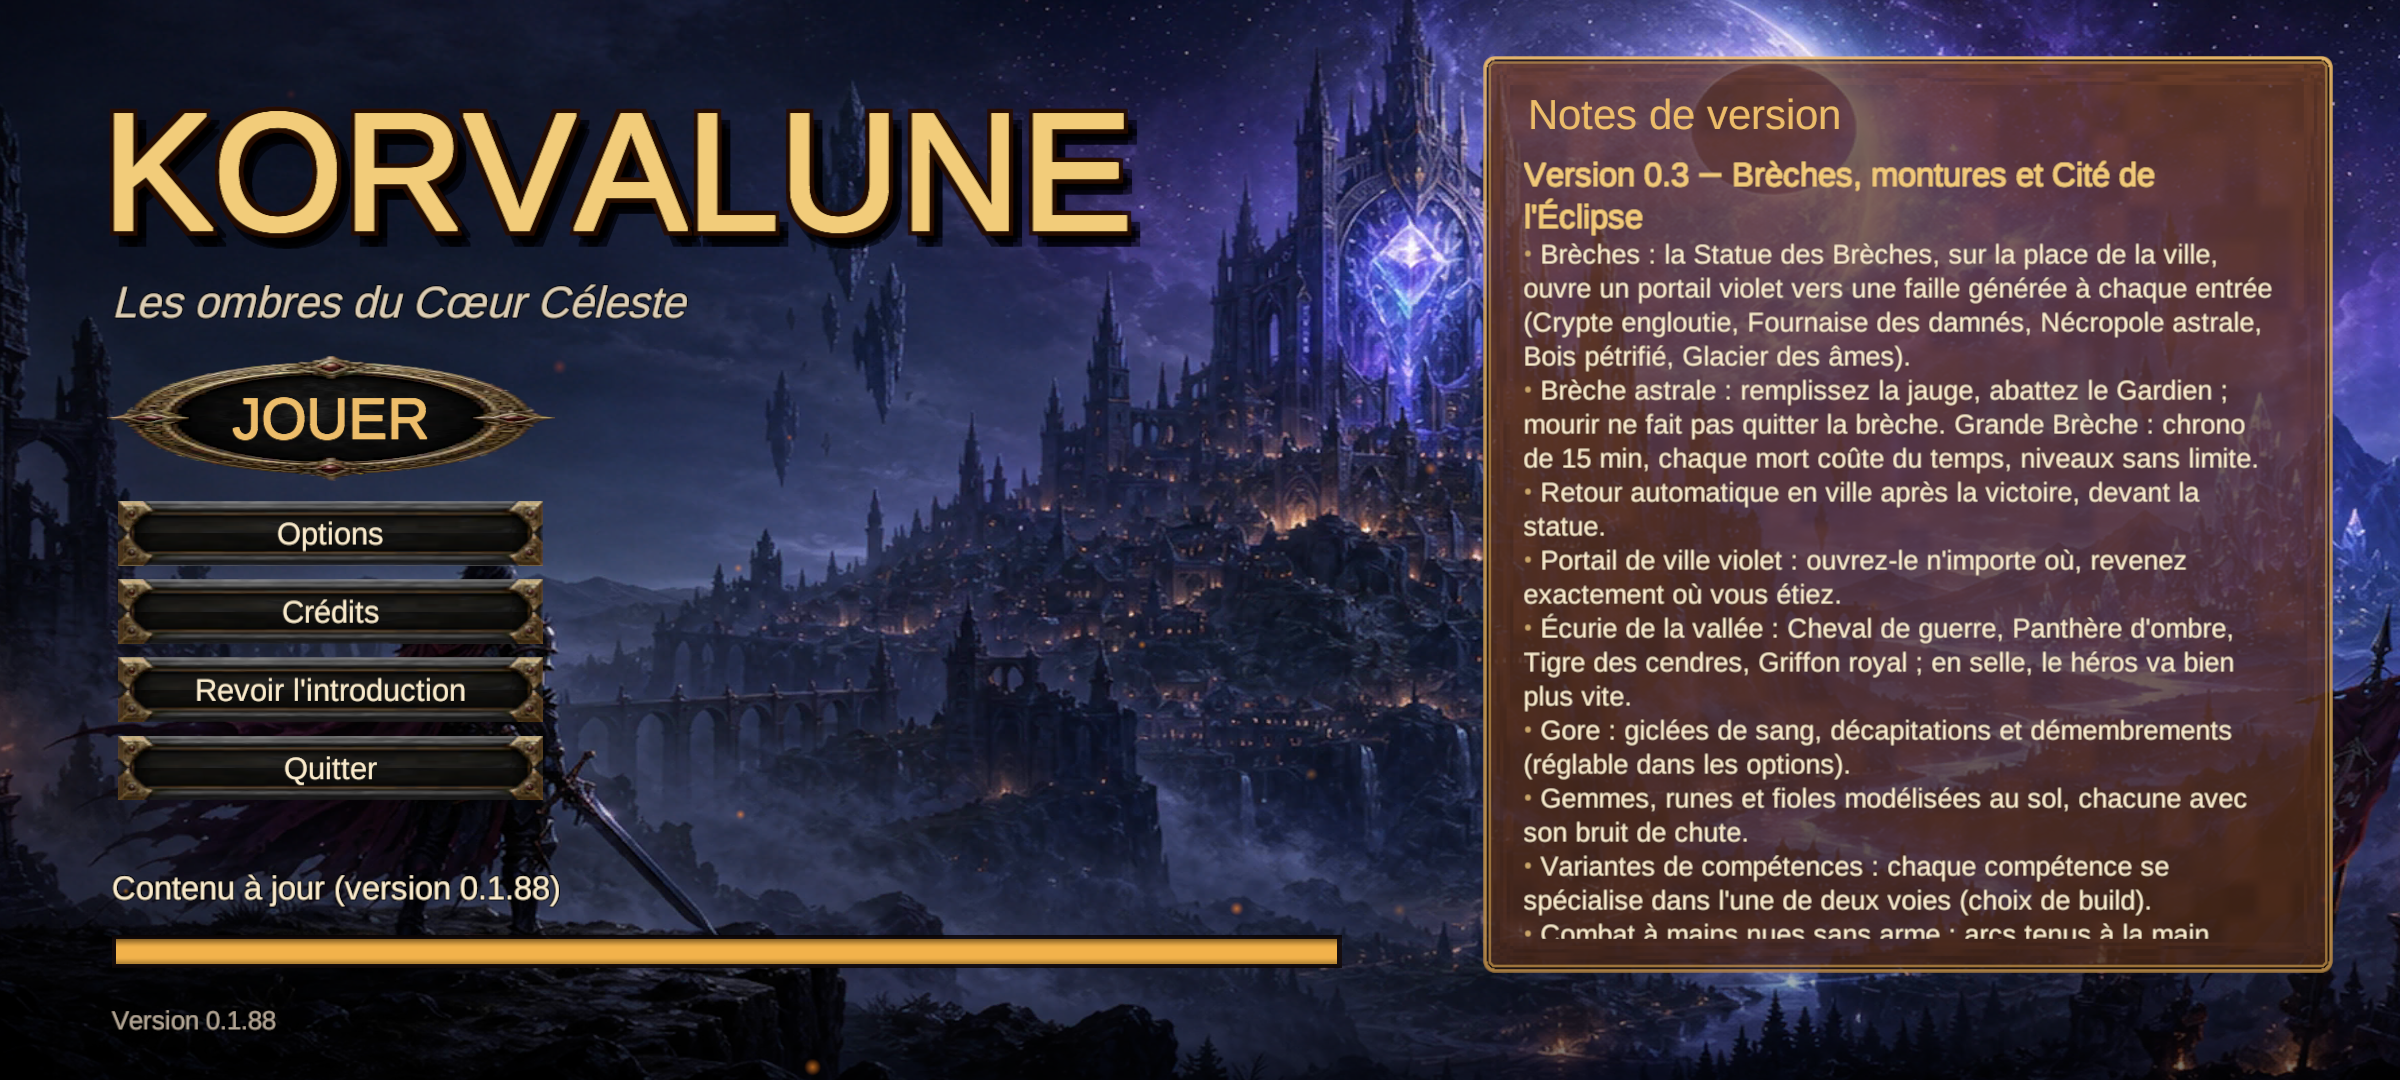
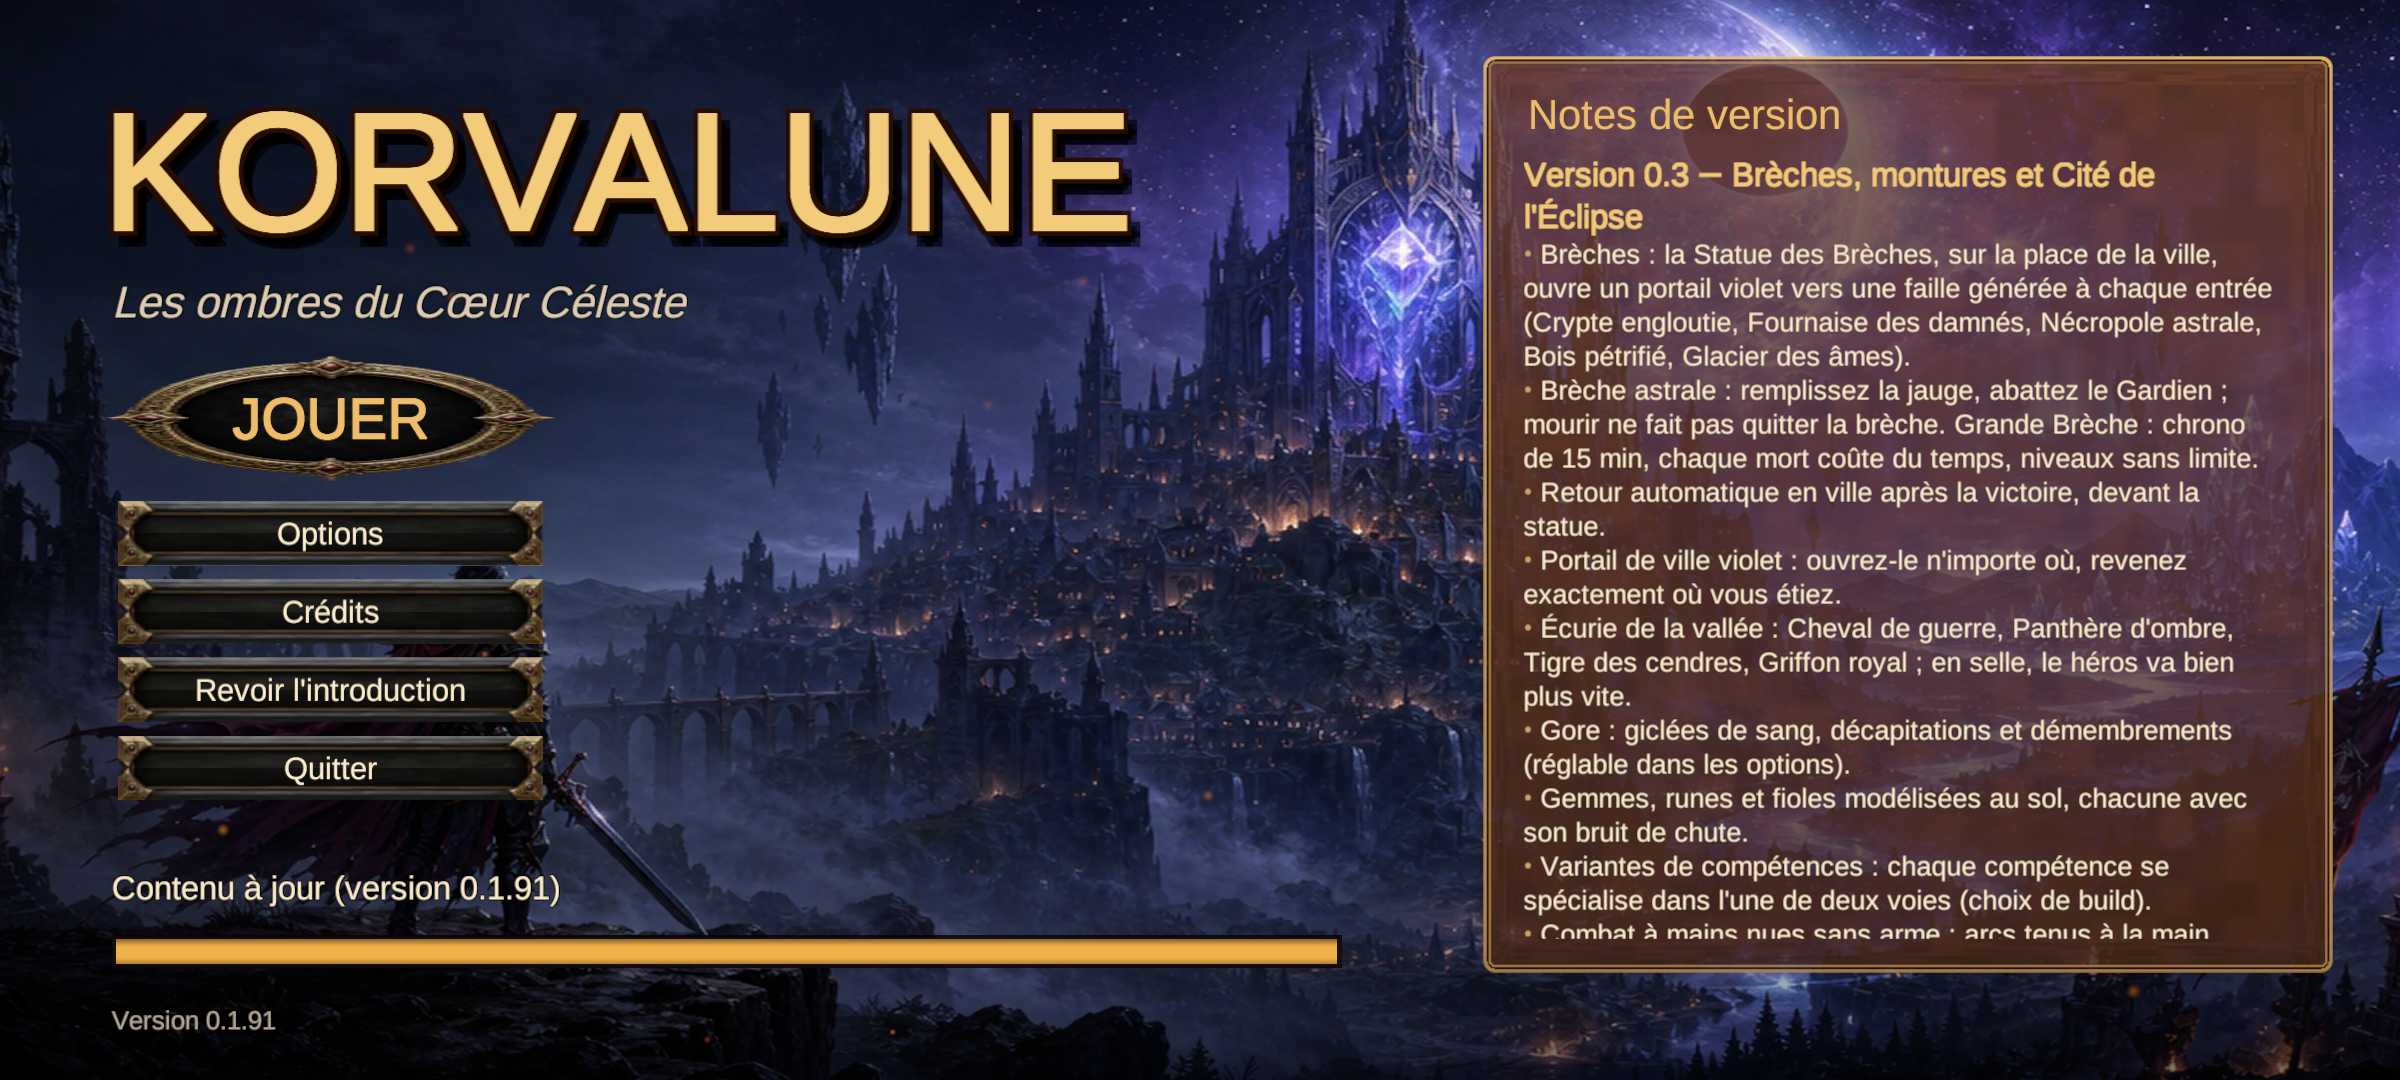
Android : APK construit et testé dans l'émulateur [skip ci]

diff --git a/ci-out/android/build.md b/ci-out/android/build.md
@@ -1,11 +1,11 @@
 # Construction de l'APK Android
 
-- Scènes : Korvalune_Lanceur, Korvalune_Selection, CharacterCreator, Korvalune_Vallee, Korvalune_Crypte, Korvalune_Terriers, Korvalune_Eclipse, Korvalune_Breche, Korvalune_Foret, Korvalune_Desert, Korvalune_Pics
+- Scènes : Korvalune_Lanceur, Korvalune_Selection, CharacterCreator, Korvalune_Vallee, Korvalune_Crypte, Korvalune_Terriers, Korvalune_Eclipse, Korvalune_Breche, Korvalune_Foret, Korvalune_Desert, Korvalune_Pics, Korvalune_Cote, Korvalune_Marais, Korvalune_Toundra, Korvalune_Volcan, Korvalune_Canyon, Korvalune_Abime
 - Signature : clé Korvalune (mises à jour sans désinstaller)
 - Icône : Assets/Korvalune/Resources/UI/Icone.png
-- Contenu téléchargeable : 92 paquets, 585 Mo (release contenu-88)
+- Contenu téléchargeable : 93 paquets, 703 Mo (release contenu-91)
+    - scenes : 146.3 Mo
     - art_catalog_models : 58.3 Mo
-    - scenes : 39.0 Mo
     - art_catalog_skins : 34.6 Mo
     - art_heroes_varek_f : 19.0 Mo
     - art_heroes_morvanna_f : 18.8 Mo
@@ -16,34 +16,40 @@
     - art_heroes_kaeldraven_f : 17.2 Mo
     - art_heroes_kaeldraven_m : 16.7 Mo
     - art_heroes_tharion_f : 16.7 Mo
-- Résultat : **Succeeded** en 1.7 min, 0 erreur(s), 12 avertissement(s)
-- APK : 87.5 Mo, version 0.1.88
+- Résultat : **Succeeded** en 3.0 min, 0 erreur(s), 12 avertissement(s)
+- APK : 89.4 Mo, version 0.1.91
 
-## Contenu empaqueté : 32 Mo
-- Texture2D : 20.0 Mo (289)
-- AudioClip : 8.3 Mo (170)
+## Contenu empaqueté : 35 Mo
+- Texture2D : 23.0 Mo (295)
+- AudioClip : 8.4 Mo (174)
 - Cubemap : 1.6 Mo (13)
 - Shader : 1.3 Mo (34)
 - Sprite : 0.1 Mo (210)
-- MonoScript : 0.1 Mo (899)
+- MonoScript : 0.1 Mo (900)
 - Font : 0.1 Mo (1)
 - MonoBehaviour : 0.1 Mo (434)
 - RectTransform : 0.0 Mo (348)
 - GameObject : 0.0 Mo (348)
 - ComputeShader : 0.0 Mo (1)
-- TextAsset : 0.0 Mo (8)
+- TextAsset : 0.0 Mo (14)
 
 ### Plus gros fichiers sources
-- 8.3 Mo — 
+- 8.4 Mo — 
 - 2.7 Mo — Built-in Texture2D: Splash Screen Unity Logo
 - 1.3 Mo — Assets/Korvalune/Resources/UI/Lanceur_Peint.png
 - 1.0 Mo — Assets/Korvalune/Resources/UI/Lanceur_Fond.png
 - 0.7 Mo — Packages/com.unity.render-pipelines.universal/Shaders/PostProcessing/UberPost.shader
 - 0.5 Mo — Resources/unity_builtin_extra
 - 0.5 Mo — Assets/Korvalune/Resources/UI/Cartes/Korvalune_Eclipse.png
+- 0.5 Mo — Assets/Korvalune/Resources/UI/Cartes/Korvalune_Toundra.png
 - 0.5 Mo — Assets/Korvalune/Resources/UI/Cartes/Korvalune_Pics.png
+- 0.5 Mo — Assets/Korvalune/Resources/UI/Cartes/Korvalune_Volcan.png
+- 0.5 Mo — Assets/Korvalune/Resources/UI/Cartes/Korvalune_Abime.png
 - 0.5 Mo — Assets/Korvalune/Resources/UI/Cartes/Korvalune_Desert.png
 - 0.5 Mo — Assets/Korvalune/Resources/UI/Cartes/Korvalune_Foret.png
+- 0.5 Mo — Assets/Korvalune/Resources/UI/Cartes/Korvalune_Cote.png
+- 0.5 Mo — Assets/Korvalune/Resources/UI/Cartes/Korvalune_Canyon.png
+- 0.5 Mo — Assets/Korvalune/Resources/UI/Cartes/Korvalune_Marais.png
 - 0.5 Mo — Assets/Korvalune/Resources/UI/Cartes/Korvalune_Vallee.png
 - 0.3 Mo — Packages/com.unity.render-pipelines.universal/Textures/SMAA/AreaTex.tga
 - 0.3 Mo — Packages/com.unity.render-pipelines.universal/Textures/FilmGrain/Medium01.png
@@ -58,55 +64,49 @@
 - 0.3 Mo — Packages/com.unity.render-pipelines.universal/Textures/FilmGrain/Large01.png
 - 0.2 Mo — Assets/Korvalune/Resources/UI/Kit/Panneau.png
 - 0.2 Mo — Assets/Korvalune/Resources/UI/Icone_Peinte.png
-- 0.1 Mo — Assets/Korvalune/Resources/UI/Icone.png
-- 0.1 Mo — Packages/com.unity.render-pipelines.universal/Shaders/PostProcessing/FinalPost.shader
-- 0.1 Mo — Assets/Korvalune/Resources/Icons/Rune_de_Puissance.png
-- 0.1 Mo — Assets/Korvalune/Resources/Icons/Potion_de_mana.png
-- 0.1 Mo — Assets/Korvalune/Resources/Icons/Rune_d_Esprit.png
-- 0.1 Mo — Assets/Korvalune/Resources/Icons/Rune_de_Sagesse.png
 
 ## Mémoire pendant la construction (dernières mesures)
 ```
-19:16:57 ram 4710/15982 swap 6/16383  2990820 Unity 356320 dotnet 
-19:17:02 ram 4812/15982 swap 6/16383  3064536 Unity 356320 dotnet 
-19:17:07 ram 4815/15982 swap 6/16383  3106888 Unity 356296 dotnet 
-19:17:12 ram 4775/15982 swap 6/16383  3078288 Unity 356296 dotnet 
-19:17:17 ram 4801/15982 swap 6/16383  3123532 Unity 356324 dotnet 
-19:17:22 ram 4570/15982 swap 6/16383  2899952 Unity 356324 dotnet 
-19:17:27 ram 4596/15982 swap 6/16383  2940220 Unity 356324 dotnet 
-19:17:32 ram 4625/15982 swap 6/16383  2970972 Unity 356324 dotnet 
-19:17:37 ram 4856/15982 swap 6/16383  3198552 Unity 356304 dotnet 
-19:17:42 ram 5186/15982 swap 6/16383  3540076 Unity 356304 dotnet 
-19:17:47 ram 5193/15982 swap 6/16383  3565060 Unity 356324 dotnet 
-19:17:52 ram 5200/15982 swap 6/16383  3583876 Unity 356324 dotnet 
-19:17:57 ram 5373/15982 swap 6/16383  3743200 Unity 356324 dotnet 
-19:18:02 ram 5510/15982 swap 6/16383  3867740 Unity 356324 dotnet 
-19:18:07 ram 5509/15982 swap 6/16383  3925300 Unity 356324 dotnet 
-19:18:12 ram 5544/15982 swap 6/16383  3950280 Unity 356304 dotnet 
-19:18:17 ram 5550/15982 swap 6/16383  3954376 Unity 356324 dotnet 
-19:18:22 ram 5449/15982 swap 6/16383  3738740 Unity 356324 dotnet 
-19:18:27 ram 5626/15982 swap 6/16383  3801908 Unity 356324 dotnet 
-19:18:32 ram 5677/15982 swap 6/16383  3805988 Unity 356324 dotnet 
-19:18:37 ram 5859/15982 swap 6/16383  3805988 Unity 394704 java 
-19:18:42 ram 5883/15982 swap 6/16383  3805976 Unity 363148 java 
-19:18:47 ram 5849/15982 swap 6/16383  3805976 Unity 369336 java 
-19:18:52 ram 6068/15982 swap 6/16383  3805960 Unity 583868 java 
-19:18:57 ram 6182/15982 swap 6/16383  3805948 Unity 695576 java 
-19:19:02 ram 6217/15982 swap 6/16383  3805920 Unity 746360 java 
-19:19:08 ram 6130/15982 swap 6/16383  3805892 Unity 660468 java 
-19:19:13 ram 6148/15982 swap 6/16383  3805892 Unity 673980 java 
-19:19:18 ram 6486/15982 swap 6/16383  3805868 Unity 992652 java 
-19:19:23 ram 6670/15982 swap 6/16383  3805868 Unity 1174936 java 
-19:19:28 ram 6855/15982 swap 6/16383  3805868 Unity 1221336 java 
-19:19:33 ram 6920/15982 swap 6/16383  3805868 Unity 1247532 java 
-19:19:38 ram 6793/15982 swap 6/16383  3805868 Unity 1299244 java 
-19:19:43 ram 7040/15982 swap 6/16383  3805868 Unity 1579056 java 
-19:19:48 ram 7065/15982 swap 6/16383  3805868 Unity 1585284 java 
-19:19:53 ram 7098/15982 swap 6/16383  3805872 Unity 1613804 java 
-19:19:58 ram 7209/15982 swap 6/16383  3805872 Unity 1723544 java 
-19:20:03 ram 7066/15982 swap 6/16383  3806024 Unity 1656804 java 
-19:20:08 ram 5341/15982 swap 6/16383  3599896 Unity 356296 dotnet 
-19:20:13 ram 1902/15982 swap 6/16383  356296 dotnet 323532 dotnet 
+22:57:36 ram 5826/15983 swap 5/16383  3791248 Unity 446228 dotnet 
+22:57:41 ram 6127/15983 swap 5/16383  3852784 Unity 446208 dotnet 
+22:57:46 ram 5970/15983 swap 5/16383  3854388 Unity 446208 dotnet 
+22:57:51 ram 7268/15983 swap 5/16383  3854420 Unity 1393968 il2cpp 
+22:57:56 ram 7943/15983 swap 5/16383  3854432 Unity 2086264 il2cpp 
+22:58:01 ram 7968/15983 swap 5/16383  3854428 Unity 2261528 il2cpp 
+22:58:06 ram 6456/15983 swap 5/16383  3854432 Unity 446224 dotnet 
+22:58:11 ram 6603/15983 swap 5/16383  3854432 Unity 446200 dotnet 
+22:58:16 ram 6681/15983 swap 5/16383  3854436 Unity 446200 dotnet 
+22:58:21 ram 6568/15983 swap 5/16383  3854436 Unity 460648 clang++ 
+22:58:26 ram 6637/15983 swap 5/16383  3854436 Unity 496856 clang++ 
+22:58:31 ram 6624/15983 swap 5/16383  3854436 Unity 565912 clang++ 
+22:58:36 ram 6591/15983 swap 5/16383  3854444 Unity 446224 dotnet 
+22:58:41 ram 6240/15983 swap 5/16383  3854448 Unity 454420 clang++ 
+22:58:46 ram 6808/15983 swap 5/16383  3854448 Unity 1025996 clang++ 
+22:58:51 ram 6121/15983 swap 5/16383  3854436 Unity 446220 dotnet 
+22:58:56 ram 5967/15983 swap 5/16383  3857480 Unity 446220 dotnet 
+22:59:01 ram 6235/15983 swap 5/16383  3857488 Unity 446220 dotnet 
+22:59:06 ram 6273/15983 swap 5/16383  3857460 Unity 446220 dotnet 
+22:59:11 ram 6307/15983 swap 5/16383  3857448 Unity 446204 dotnet 
+22:59:16 ram 6596/15983 swap 5/16383  3857448 Unity 629328 java 
+22:59:21 ram 6492/15983 swap 5/16383  3857448 Unity 551168 java 
+22:59:26 ram 6724/15983 swap 5/16383  3857456 Unity 771536 java 
+22:59:31 ram 6941/15983 swap 186/16383  3857456 Unity 1053976 java 
+22:59:37 ram 6290/15983 swap 714/16383  3579008 Unity 1115112 java 
+22:59:42 ram 6427/15983 swap 714/16383  3579008 Unity 1182060 java 
+22:59:47 ram 6351/15983 swap 927/16383  3578184 Unity 1215844 java 
+22:59:52 ram 6281/15983 swap 1114/16383  3521092 Unity 1366032 java 
+22:59:57 ram 6393/15983 swap 1223/16383  3409580 Unity 1404660 java 
+23:00:02 ram 6129/15983 swap 1390/16383  3231648 Unity 1558996 java 
+23:00:07 ram 6010/15983 swap 1519/16383  3106996 Unity 1565904 java 
+23:00:12 ram 5498/15983 swap 2156/16383  2517820 Unity 1638064 java 
+23:00:17 ram 5081/15983 swap 2702/16383  1961684 Unity 1757684 java 
+23:00:22 ram 4931/15983 swap 2886/16383  1774456 java 1768696 Unity 
+23:00:27 ram 4755/15983 swap 2963/16383  1756328 java 1751268 Unity 
+23:00:32 ram 4950/15983 swap 2941/16383  1936636 Unity 1756328 java 
+23:00:37 ram 5218/15983 swap 2933/16383  2125812 Unity 1756328 java 
+23:00:42 ram 3144/15983 swap 2721/16383  1937108 Unity 191828 MainThread 
+23:00:47 ram 1410/15983 swap 651/16383  191828 MainThread 162052 provjobd4247660 
+23:00:52 ram 1252/15983 swap 13/16383  191828 MainThread 162300 provjobd4247660 
 ```
 ## Noyau (OOM)
 ```

diff --git a/ci-out/android/test.md b/ci-out/android/test.md
@@ -1,7 +1,7 @@
 # Test de l'APK dans un émulateur Android (API 30, x86_64)
 
 - Android 11
-- APK : 87.5 Mo
+- APK : 89.4 Mo
 - ✅ Installation
 - ✅ Jeu en cours d'exécution à 20 s (capture ecran_20s.png)
 - ✅ Jeu en cours d'exécution à 45 s (capture ecran_45s.png)
@@ -13,9 +13,6 @@
     [Korvalune] partie automatique : activée
     [Korvalune][test] lanceur prêt : on joue
     [Korvalune][test] chargement de la scène « Korvalune_Vallee » avec Testeur
-    [Korvalune][test] chargement 90 %
-    [Korvalune][test] chargement 90 %
-    [Korvalune][test] chargement 90 %
     [Korvalune][test] chargement 90 %
     [Korvalune][test] chargement 90 %
     [Korvalune][test] chargement 90 %
